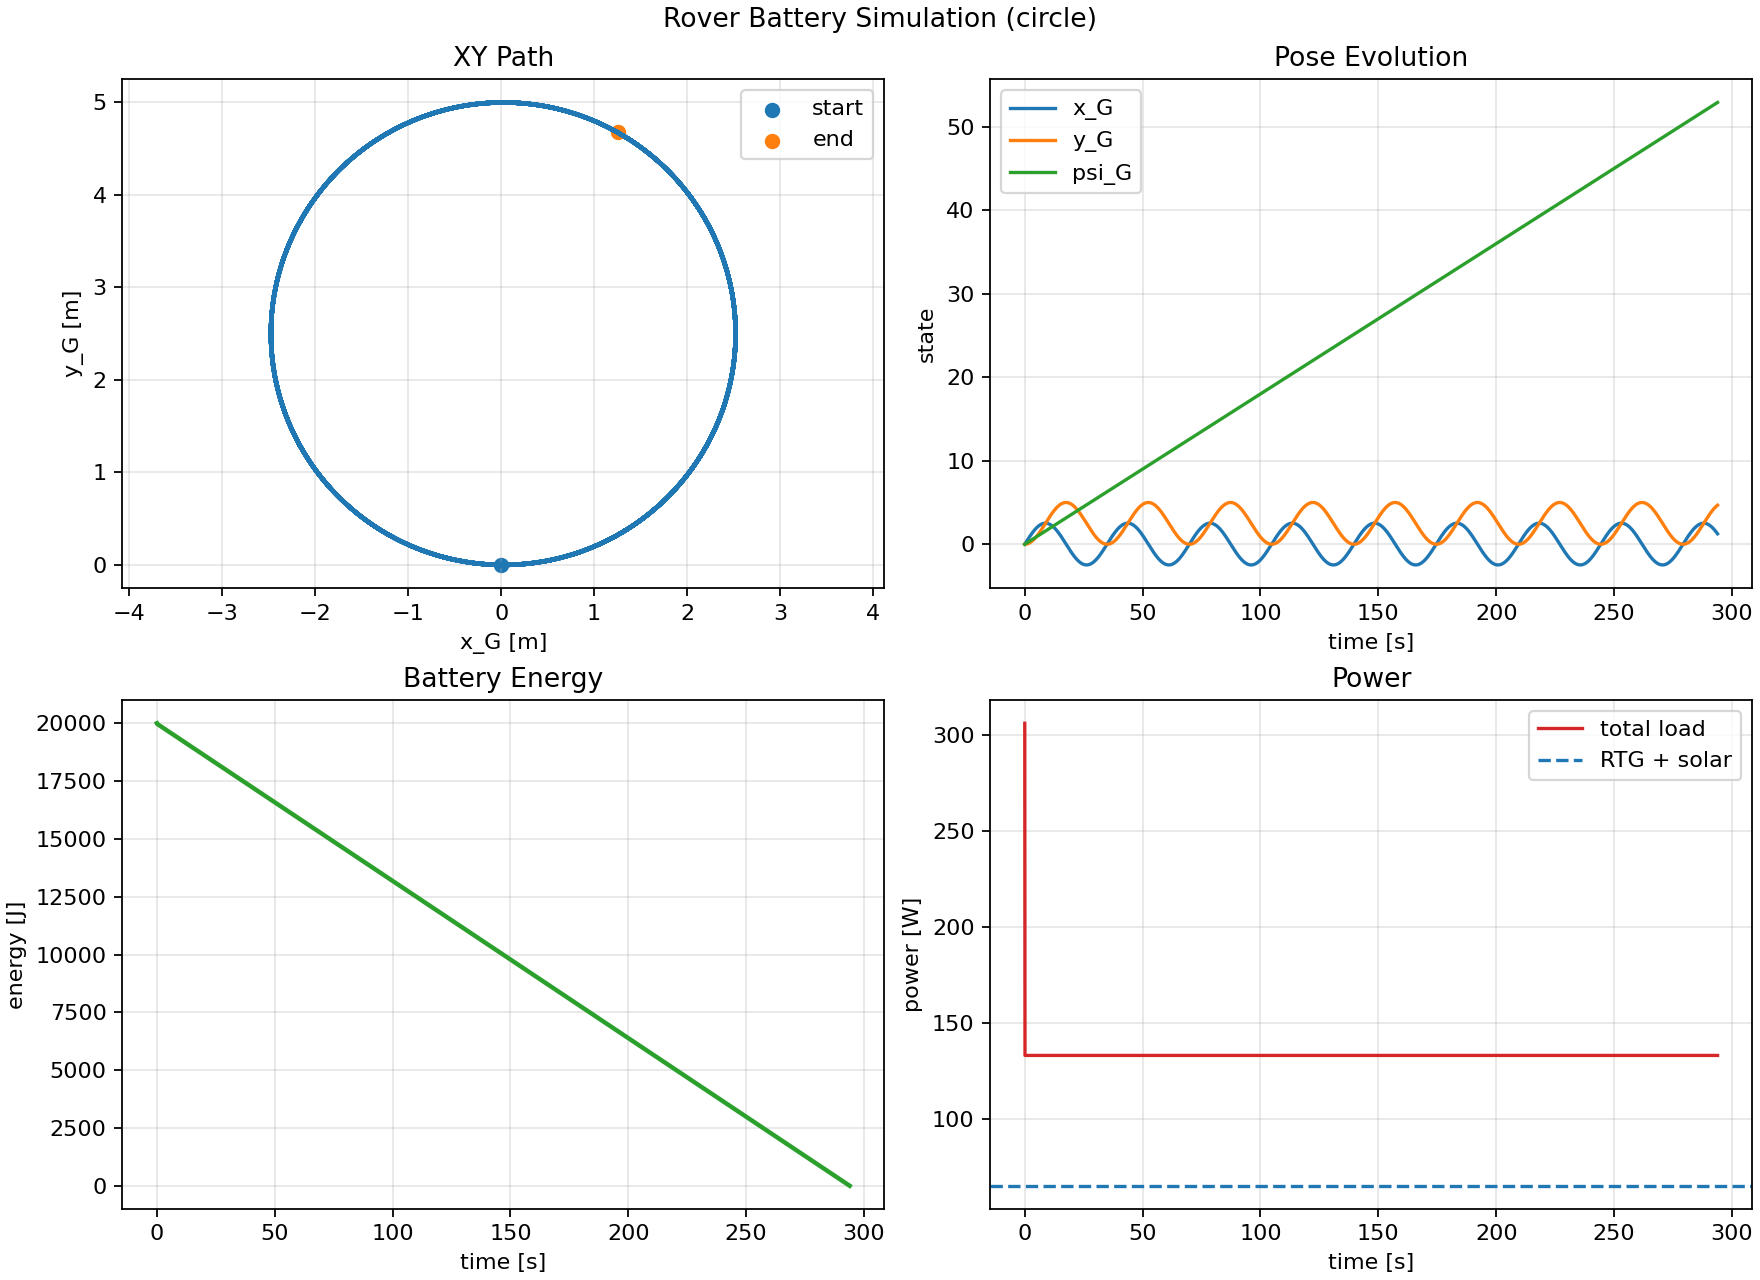
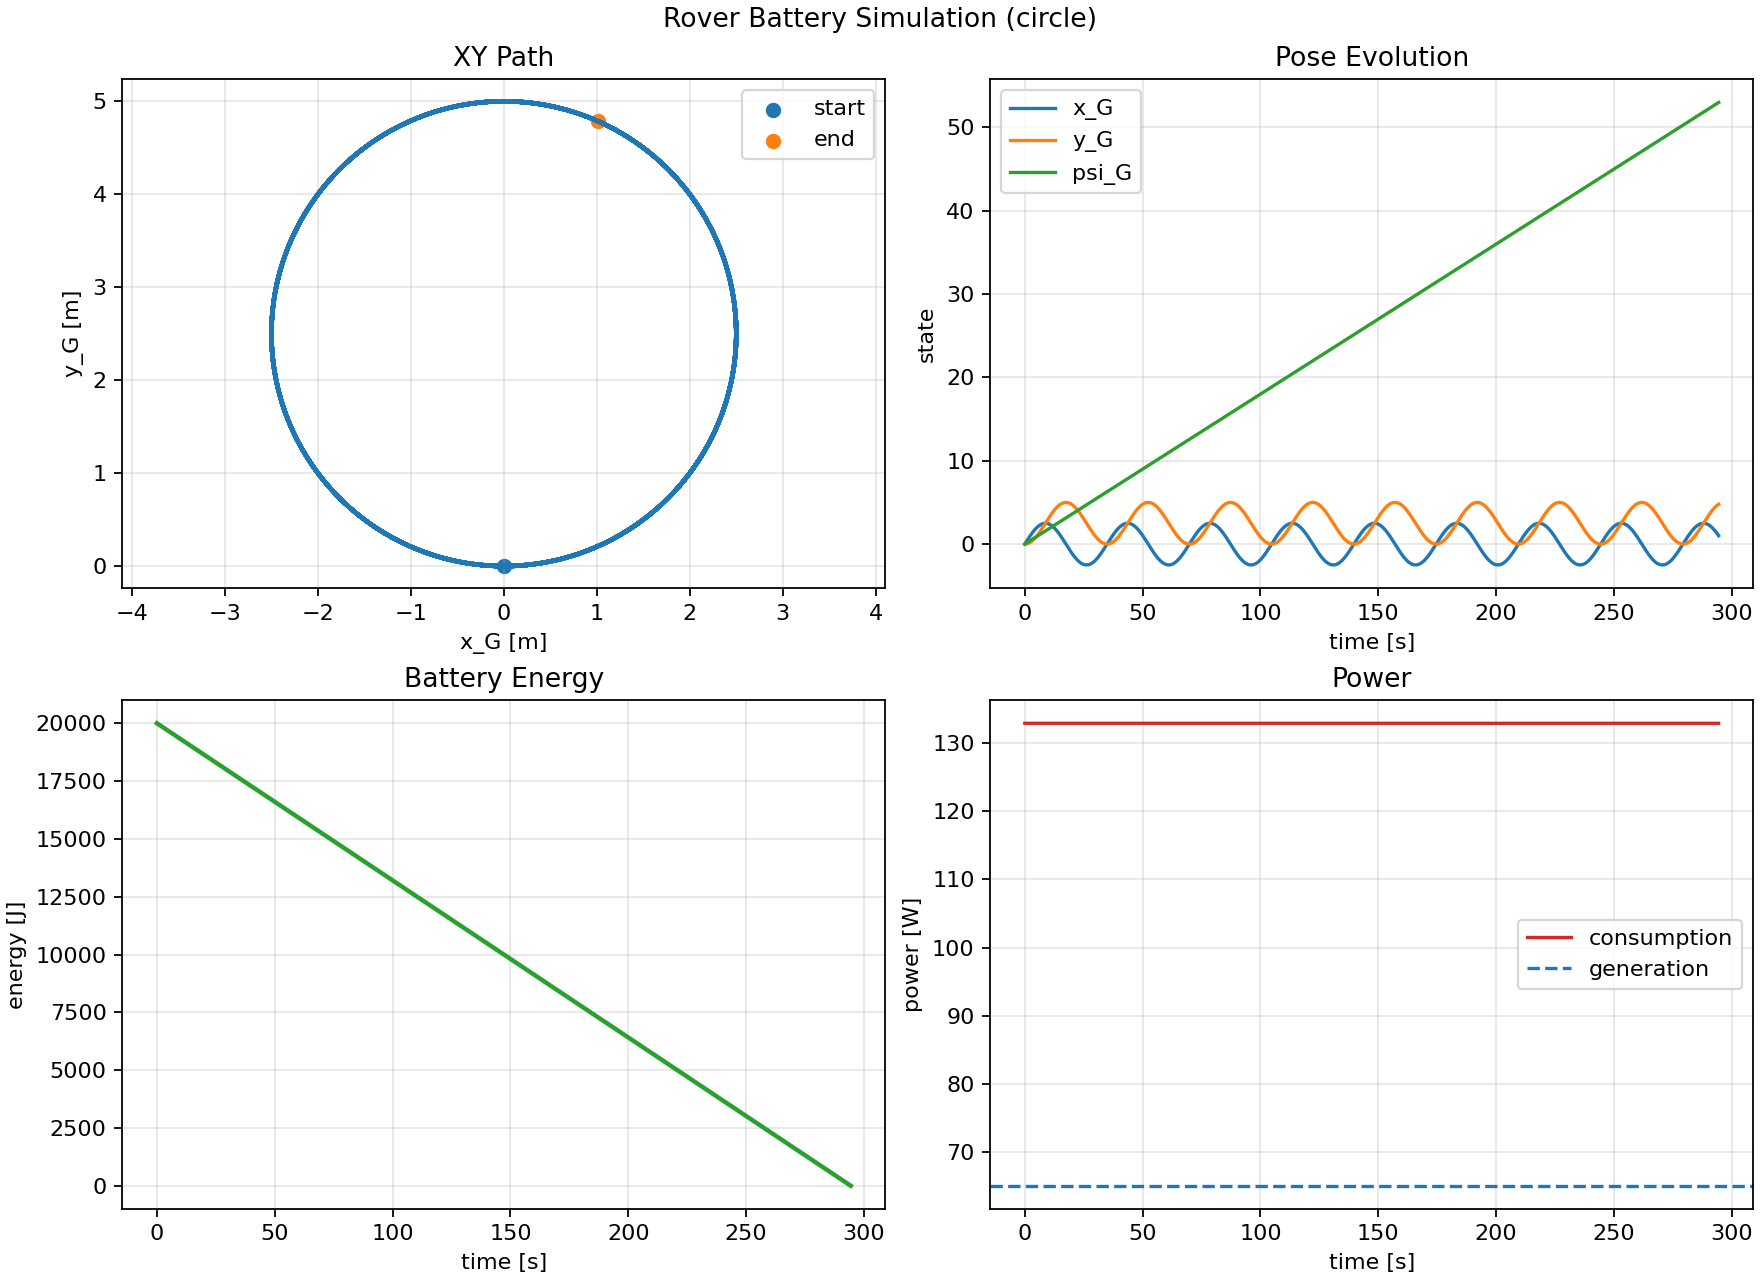
added corridor

diff --git a/optimizer/scp_jax.py b/optimizer/scp_jax.py
@@ -37,6 +37,7 @@ class SCP:
 
     high_level_path: list = field(default_factory=list)
     history: list = field(default_factory=list)
+    corridor_radius_m: float = 1500.0
 
     beta_grow: float = 1.1
     beta_shrink: float = 0.5
@@ -74,20 +75,6 @@ class SCP:
     def horizon_steps(self):
         return self.N
 
-    # x0 = np.array([-1.0, -1.0, 0.0, 0.0])  # initial state
-    # x_goal = np.array([1.0, 1.0, 0.0, 0.0])  # desired final state
-    # P = 1e2 * np.eye(n_state)  # terminal state cost matrix
-    # Q = 1e1 * np.eye(n_state)  # state cost matrix
-    # R = 1e-2 * np.eye(m_control)  # control cost matrix
-    # # Set obstacle center points and radii
-    # centers = np.array(
-    #     [
-    #         [-0.6, -0.4],
-    #         [0.6, 0.1],
-    #     ]
-    # )
-    # radii = np.array([0.5, 0.5])
-
     def affinize(self, f, x_bar, u_bar):
         """
         Affinize the function `f(s, u)` around `(x_bar, u_bar)`.
@@ -103,11 +90,32 @@ class SCP:
         A, B, c = jax.vmap(one_step)(x_bar, u_bar)
         return np.array(A), np.array(B), np.array(c)
 
+    def path_positions(self, n_points: int) -> np.ndarray | None:
+        """Interpolate the stored high-level path to ``n_points`` samples."""
+
+        pts = np.asarray(self.high_level_path, dtype=float)
+        if pts.size == 0:
+            return None
+        if pts.ndim != 2 or pts.shape[1] < 2:
+            raise ValueError("high_level_path must contain XY waypoints")
+        if len(pts) == 1:
+            return np.repeat(pts[:1, :2], n_points, axis=0)
+
+        seg = np.linalg.norm(np.diff(pts[:, :2], axis=0), axis=1)
+        s = np.concatenate(([0.0], np.cumsum(seg)))
+        if s[-1] <= 0.0:
+            return np.repeat(pts[:1, :2], n_points, axis=0)
+        s_eval = np.linspace(0.0, s[-1], n_points)
+        x = np.interp(s_eval, s, pts[:, 0])
+        y = np.interp(s_eval, s, pts[:, 1])
+        return np.column_stack((x, y))
+
     def scp_iteration(self, x0, x_goal, x_prev, u_prev):
         """Solve a single SCP sub-problem for trajectory optimization."""
 
         Af, Bf, cf = self.affinize(lambda x, u: self.model.jax_F(x, u), x_prev[:-1], u_prev)
         Ap, Bp, pc = self.affinize(lambda x, u: self.model.jax_P(x, u), x_prev[:-1], u_prev)
+        path_xy = self.path_positions(self.N + 1)
 
         x_opt = cvx.Variable((self.N + 1, self.n_state))    # X, Y, E, speed, heading, omega
         u_opt = cvx.Variable((self.N, self.m_control))      # speed, heading
@@ -126,7 +134,8 @@ class SCP:
 
             constraints += [
                             x_opt[t + 1,:] == Af[t] @ x_opt[t,:] + Bf[t] @ u_opt[t,:] + cf[t] + nu_opt[t,:],
-                            # P_k \in C_k     # corridor, from high-level path
+                            cvx.norm_inf(x_opt[t, :2] - path_xy[t]) <= self.corridor_radius_m,
+                            cvx.norm_inf(x_opt[t + 1, :2] - path_xy[t + 1]) <= self.corridor_radius_m,
                             u_opt[t,0] >= 0,
                             u_opt[t,0] <= self.v_max,
                             # accel constraints

diff --git a/plot_planner_scp.py b/plot_planner_scp.py
@@ -22,6 +22,22 @@ def path_length(points: np.ndarray) -> float:
         return 0.0
     return float(np.sum(np.linalg.norm(np.diff(points[:, :2], axis=0), axis=1)))
 
+
+def resample_path(points: np.ndarray, n_samples: int) -> np.ndarray:
+    points = np.asarray(points, dtype=float)
+    if len(points) == 0:
+        return np.zeros((0, 2), dtype=float)
+    if len(points) == 1:
+        return np.repeat(points[:, :2], n_samples, axis=0)
+    seg = np.linalg.norm(np.diff(points[:, :2], axis=0), axis=1)
+    s = np.concatenate(([0.0], np.cumsum(seg)))
+    if s[-1] <= 0.0:
+        return np.repeat(points[:1, :2], n_samples, axis=0)
+    s_eval = np.linspace(0.0, s[-1], n_samples)
+    x = np.interp(s_eval, s, points[:, 0])
+    y = np.interp(s_eval, s, points[:, 1])
+    return np.column_stack((x, y))
+
 def build_planner_path(n_waypoints: int = 40):
     return build_planner_solution(
         start_req=(-13_000.0, 0.0),
@@ -150,17 +166,21 @@ def main() -> None:
     x_goal = np.array([high_level_path[-1, 0], high_level_path[-1, 1], scp.model.min_battery_charge_j, 0.0, 0.0, 0.0], dtype=float)
     x_init = np.zeros((scp.N + 1, scp.n_state), dtype=float)
     u_init = np.zeros((scp.N, scp.m_control), dtype=float)
-    for k in range(scp.N + 1):
-        alpha = k / scp.N
-        x_init[k] = (1.0 - alpha) * x0 + alpha * x_goal
-    delta = x_goal[:2] - x0[:2]
-    heading = float(np.arctan2(delta[1], delta[0])) if np.linalg.norm(delta) > 0.0 else 0.0
-    speed = min(scp.v_max, np.linalg.norm(delta) / max(scp.N * scp.dt, 1.0))
+    path_xy = resample_path(high_level_path, scp.N + 1)
+    path_delta = np.diff(path_xy, axis=0)
+    path_dist = np.linalg.norm(path_delta, axis=1)
+    path_heading = np.unwrap(np.arctan2(path_delta[:, 1], path_delta[:, 0]))
+    path_speed = np.clip(path_dist / max(scp.dt, 1.0e-6), 0.0, scp.v_max)
+    x_init[:, :2] = path_xy
+    x_init[:, 2] = np.linspace(x0[2], x_goal[2], scp.N + 1)
+    x_init[:-1, 3] = path_speed
+    x_init[:-1, 4] = path_heading
+    x_init[:-1, 5] = np.concatenate(([0.0], np.diff(path_heading) / max(scp.dt, 1.0e-6)))
+    x_init[-1, 3] = x_init[-2, 3]
+    x_init[-1, 4] = x_init[-2, 4]
+    x_init[-1, 5] = x_init[-2, 5]
     for k in range(scp.N):
-        u_init[k] = [speed, heading]
-        x_init[k, 3] = speed
-        x_init[k, 4] = heading
-        x_init[k, 5] = 0.0
+        u_init[k] = [path_speed[min(k, len(path_speed) - 1)], path_heading[min(k, len(path_heading) - 1)]]
     x_star, u_star = scp.solve_scp(x0, x_goal, scp.N, scp.eps, x_init=x_init, u_init=u_init)
 
     plot_results(terrain, raw_path, high_level_path, scp, x_init, u_init, x_star, u_star, OUTPUT_PATH)
